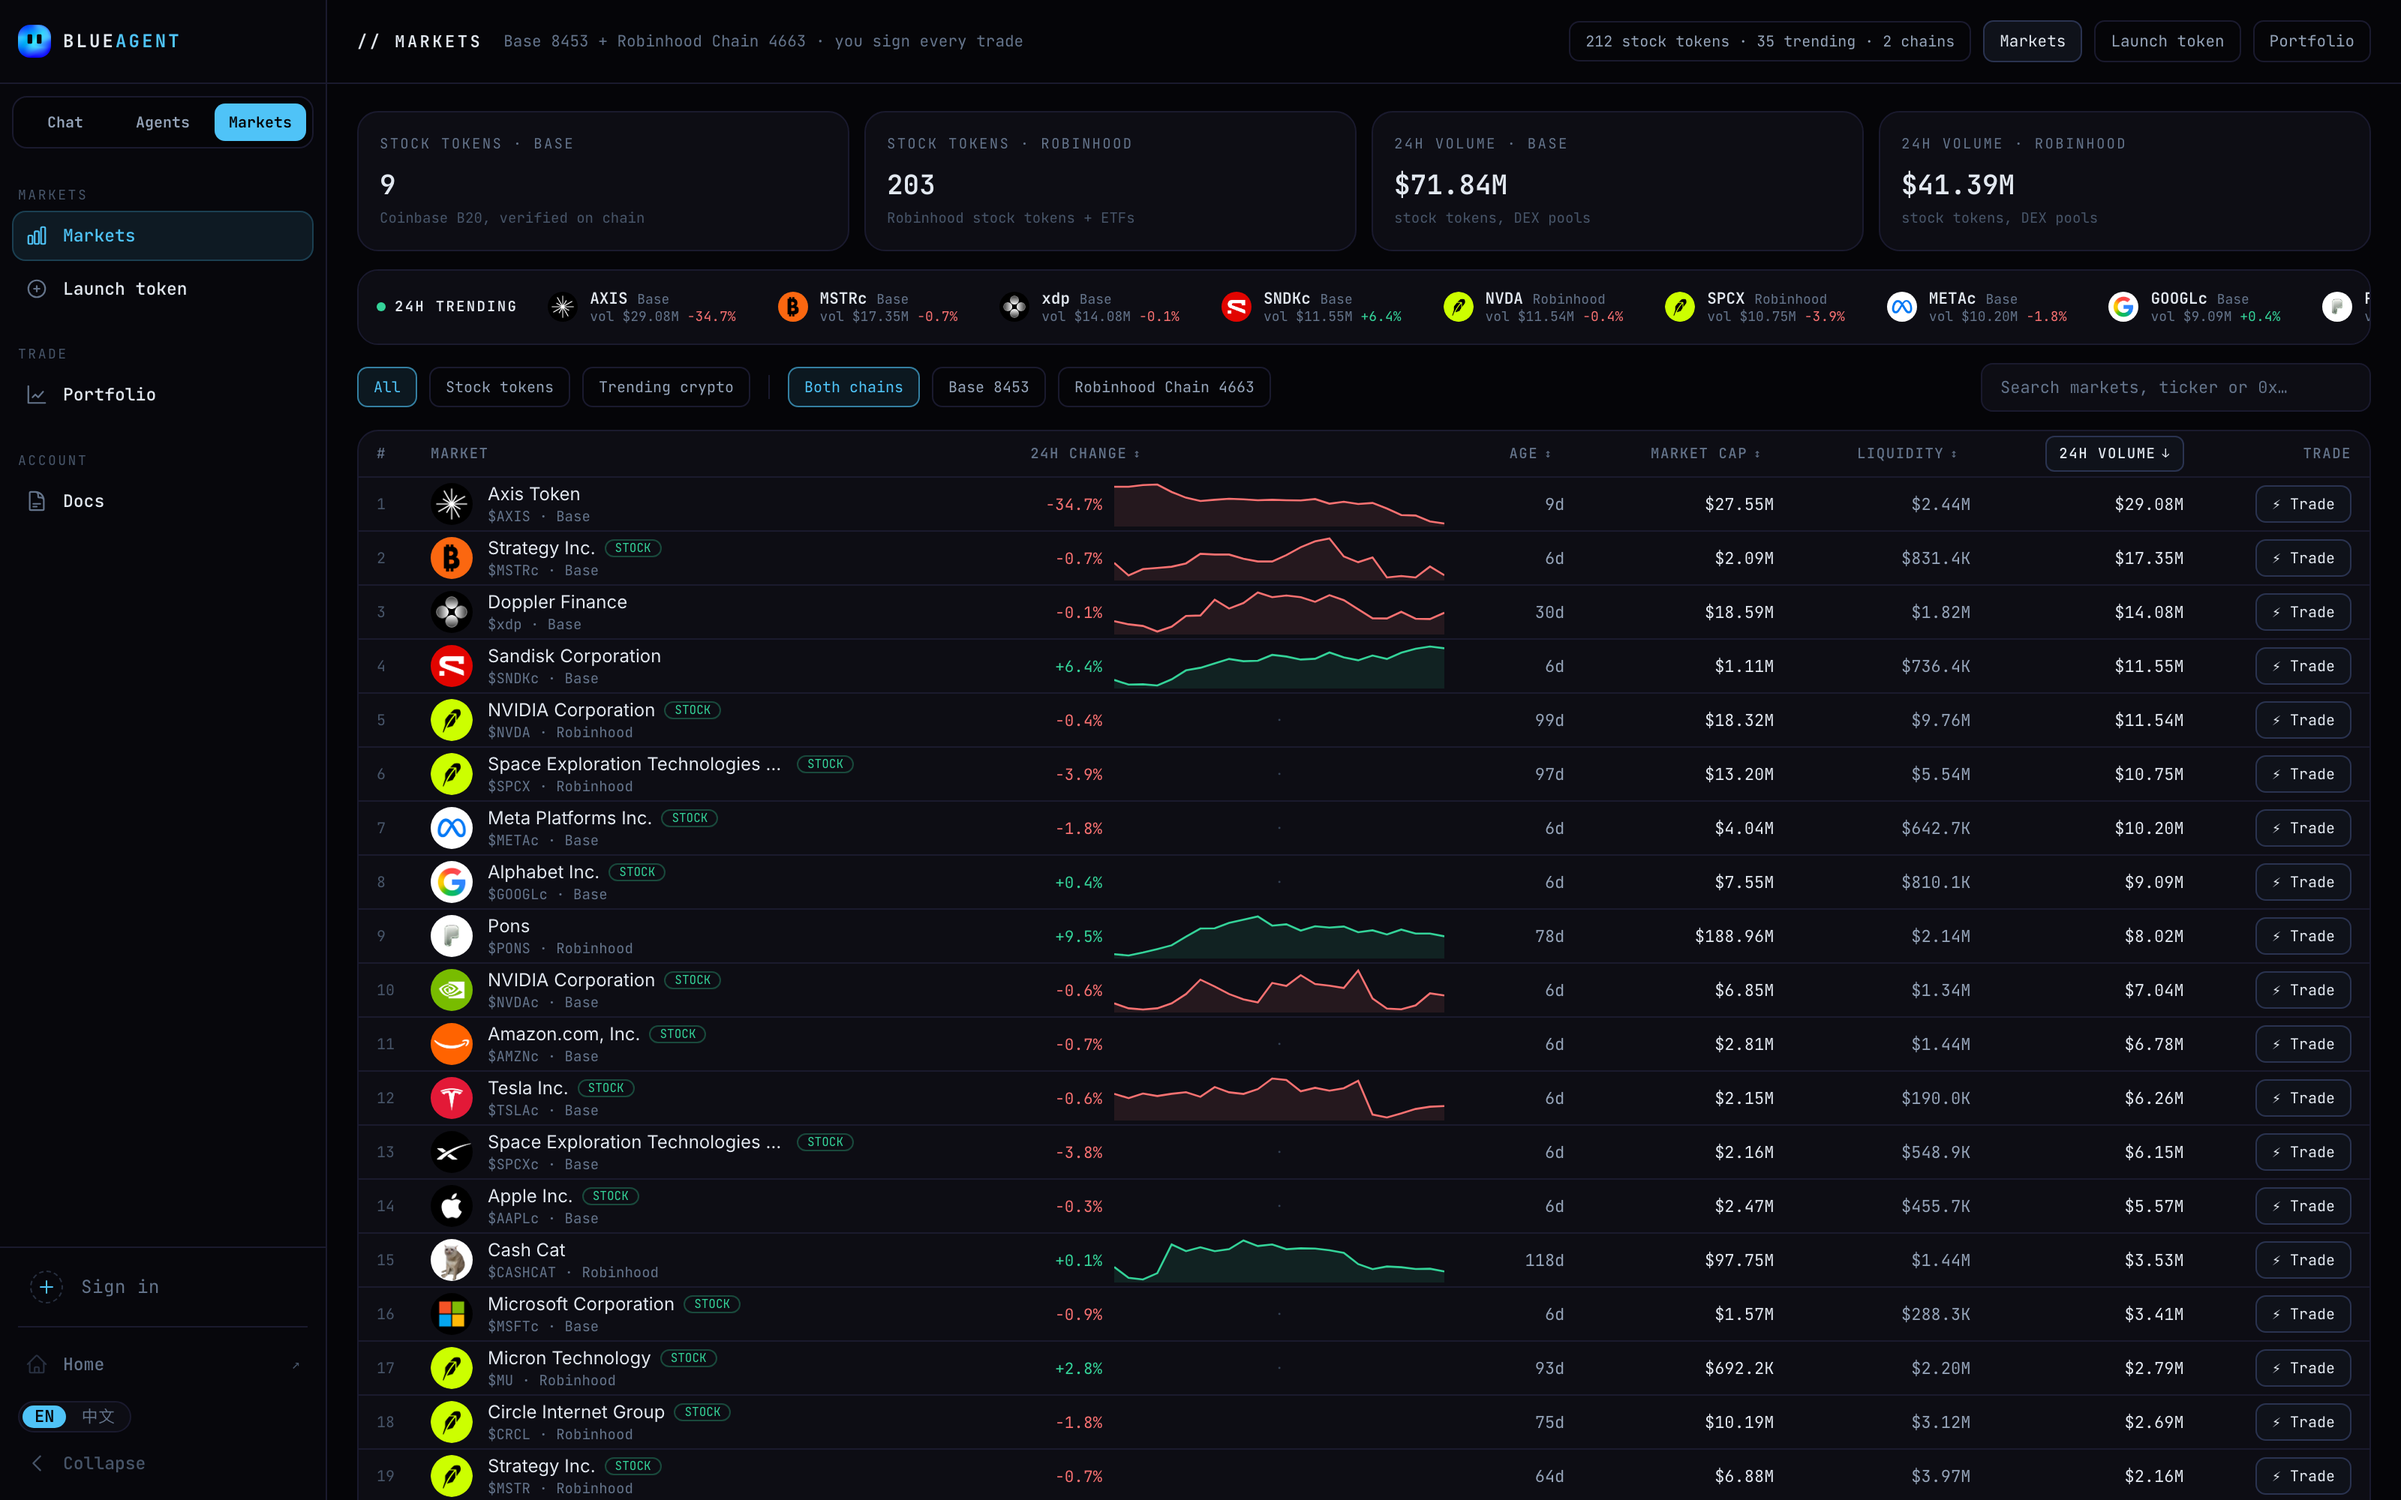
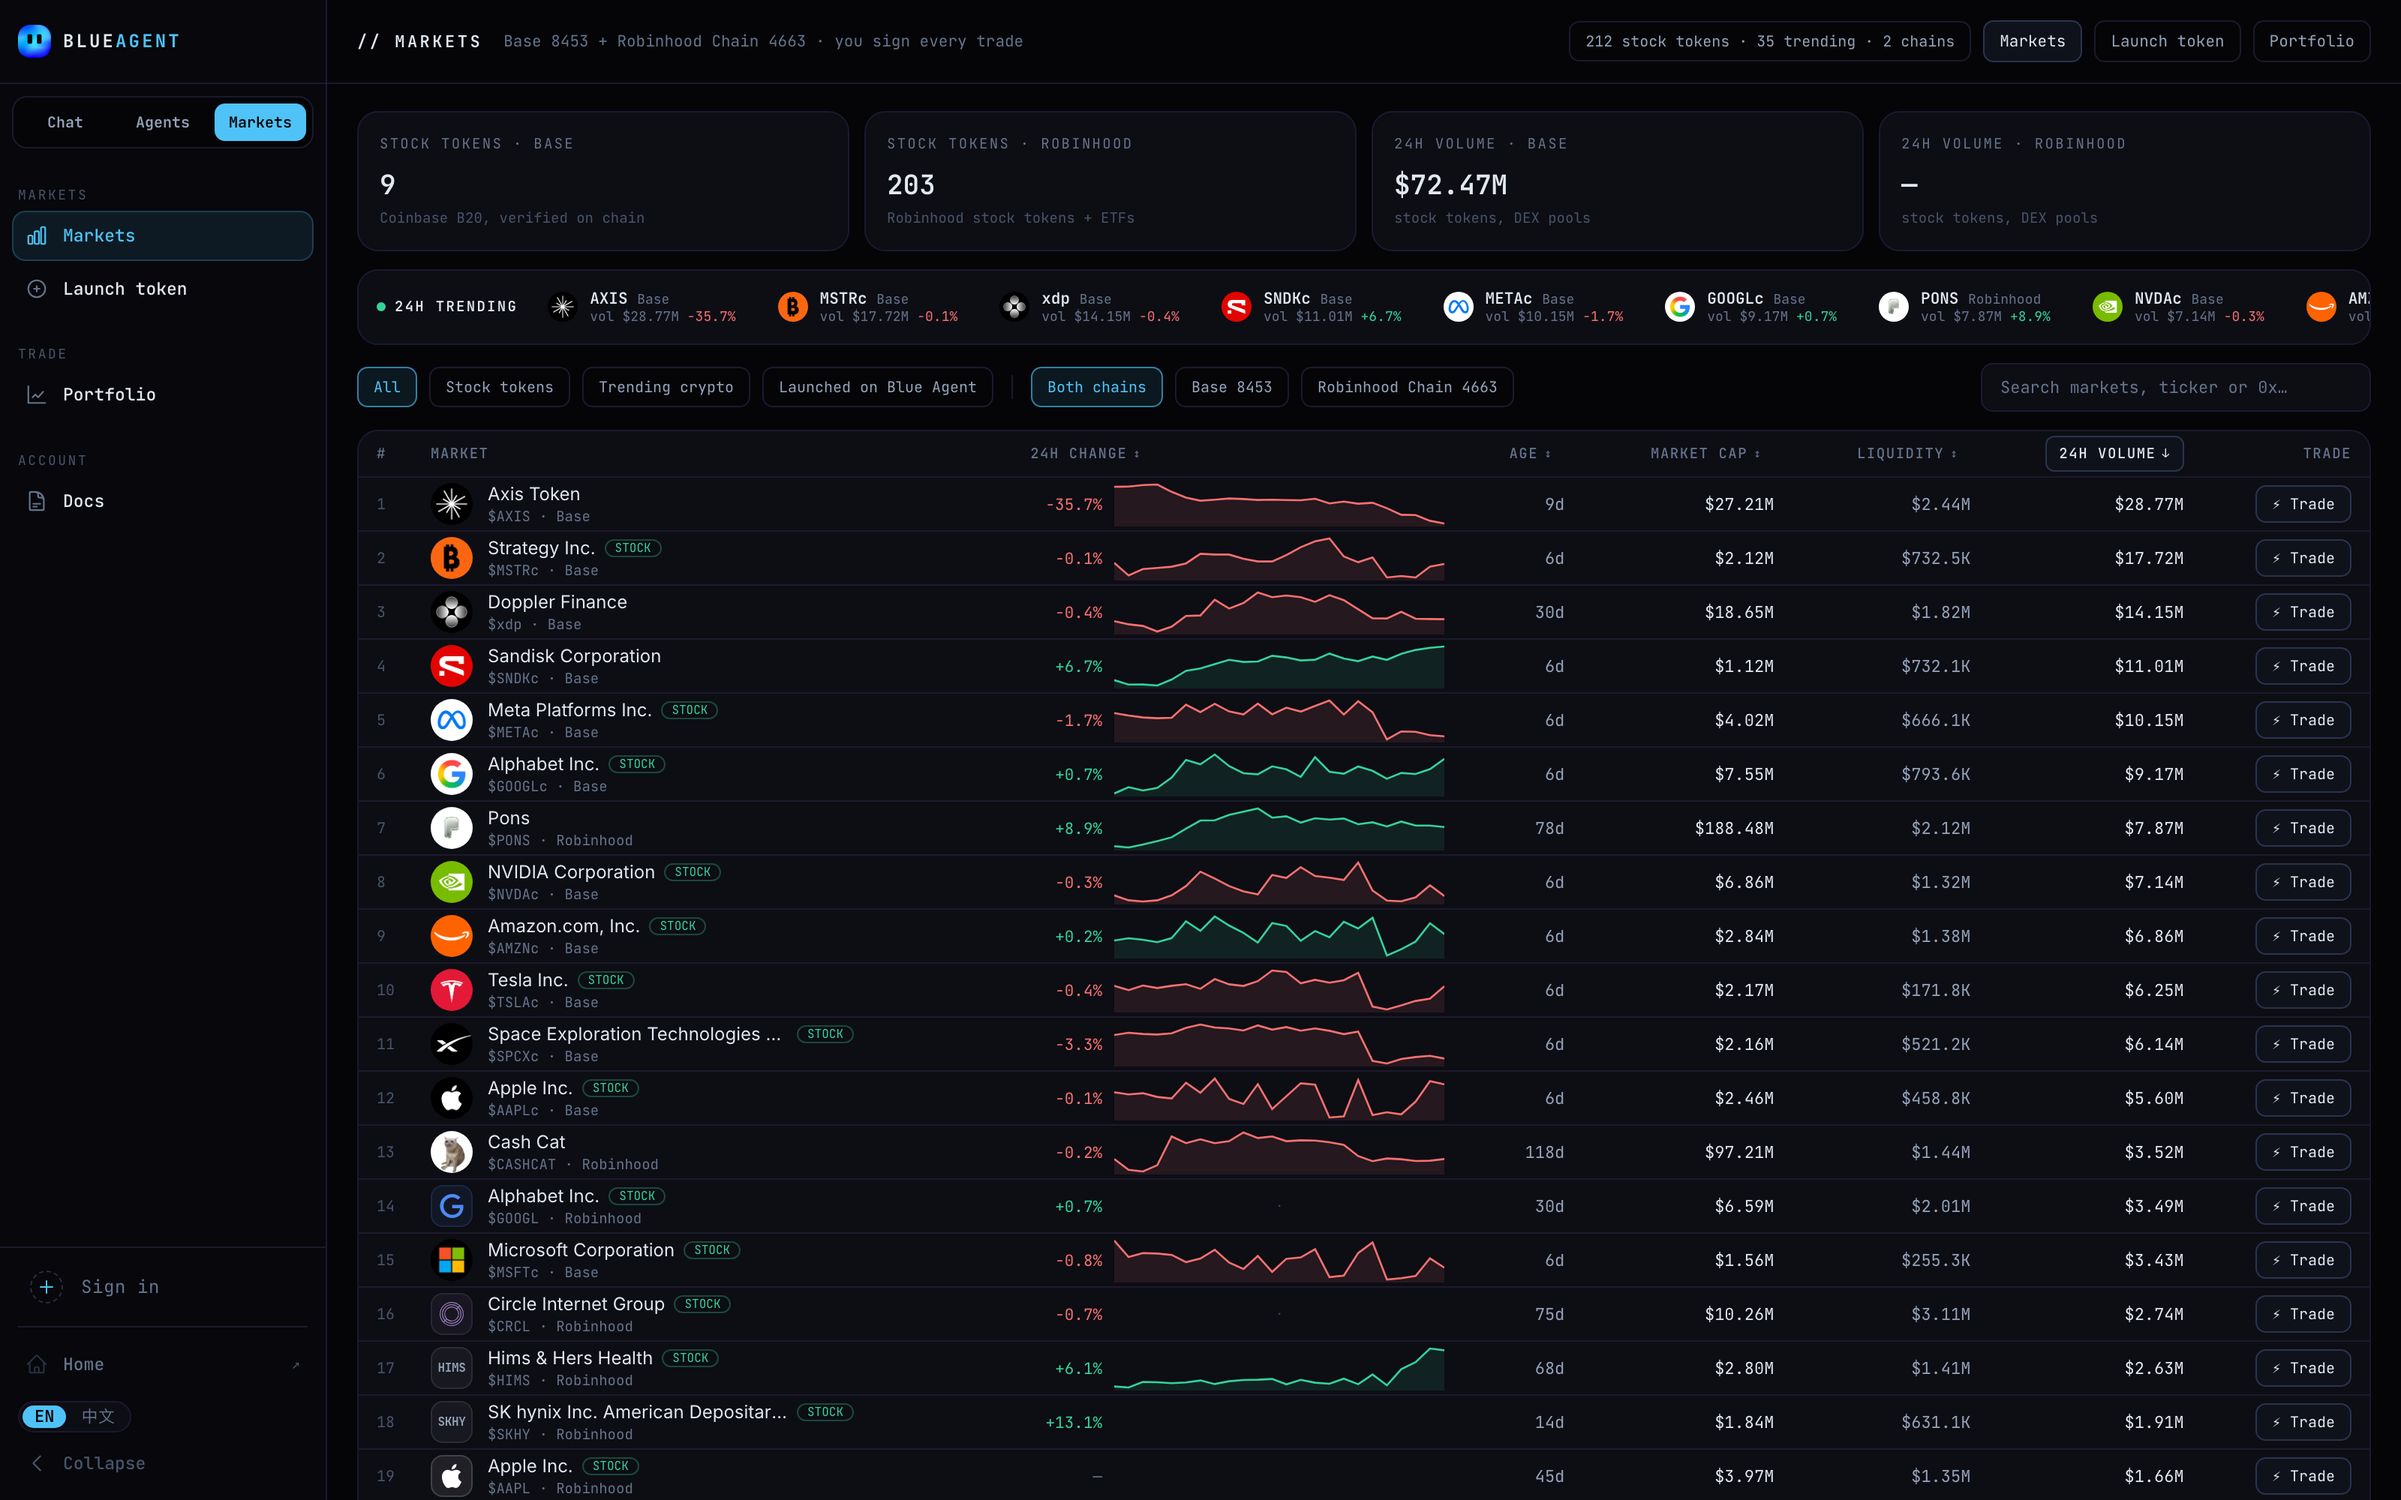
docs: final Agent Exchange article with images placed inline

diff --git a/docs/article-agent-exchange-2026-10-28.md b/docs/article-agent-exchange-2026-10-28.md
@@ -1,8 +1,8 @@
+**[COVER: 01-cover.png]**
+
+![01-cover.png](article-media/01-cover.png)
+
 # Blue Agent Exchange: every agent on Base, measured on chain
-
-*X article draft for @blueagent_. English, no em dashes, every number carries its chain. No token mentions (ShunTr, 2026-10-28). Figures are from production on 2026-10-28; re-read them from app.blueagent.dev/exchange/analytics the day it is posted.*
-
----
 
 Agents are starting to buy from each other. One agent needs a token checked, another needs a price compared across chains, a third needs a wallet screened before it pays it. Money moves in USDC, often with no human watching.
 
@@ -27,6 +27,10 @@ In the last 8 days on Base:
 
 These figures are measured, not estimated. We do not multiply calls by a listed price. Where we cannot tell something, such as a seller's own test wallets, we say so instead of guessing.
 
+**[IMAGE: 02-agents.png]**
+
+![02-agents.png](article-media/02-agents.png)
+
 ## Agents first, then everyone
 
 The Agents tab puts three groups on top of that list:
@@ -36,6 +40,10 @@ The Agents tab puts three groups on top of that list:
 - **Top sellers of the last 7 days**, by USDC received on Base.
 
 Analytics ranks the same sellers four ways: revenue, paying wallets, paid calls and growth. Growth compares whole days only, so a half-indexed day never looks like a jump.
+
+**[IMAGE: 04-analytics.png]**
+
+![04-analytics.png](article-media/04-analytics.png)
 
 ## A profile for every agent
 
@@ -60,6 +68,10 @@ Four checks sit at the top. We measure each one ourselves:
 Pick a service, check its input, and ask for the price. Blue Agent shows you the exact amount and the wallet it goes to before anything is signed.
 
 You sign one USDC authorization on Base, straight to the seller. Blue Agent takes no fee and never holds your money. If the quote asks for more than the listed price, or pays a different wallet, we refuse to let you sign it.
+
+**[IMAGE: 03-hire.png]**
+
+![03-hire.png](article-media/03-hire.png)
 
 ## Sell your service
 
@@ -99,6 +111,10 @@ The same rule runs in Markets. Stock tokens live on two chains today: 9 Coinbase
 
 Each token page shows candles from 15 minutes to a day and recent trades from its deepest pool, its on-chain facts, and a swap your own wallet signs. Portfolio reads what a wallet holds on both chains in one view.
 
+**[IMAGE: 05-markets.png]**
+
+![05-markets.png](article-media/05-markets.png)
+
 ## Built for agents first
 
 Everything on the Exchange is also machine-readable:
@@ -120,10 +136,3 @@ Or open the Exchange at app.blueagent.dev/exchange, and Markets at app.blueagent
 
 Every figure says where it comes from. Every payment has a receipt on Base.
 
----
-
-## Before posting (not part of the article)
-
-- Everything the article describes is live on production since 2026-10-28 17:30 UTC (main 09a40190): modes, Agents (listed, Discovered, Sell, My usage, Following, Docs, leaderboards), Markets + Portfolio.
-- Re-read the four numbers from /exchange/analytics right before posting and keep "in the last N days" equal to the window the page shows. The stock-token counts (9 on Base, 203 on Robinhood Chain) come from the Markets page tiles.
-- Images are in `docs/article-media/` (see its README for the order and alt text).

diff --git a/docs/article-media/README.md b/docs/article-media/README.md
@@ -17,3 +17,9 @@ fetch `https://blueagent.dev/api/hub/providers?limit=500` to `prov.json` next to
 `03-hire.png` uses a live, unsigned quote from www.ax1.vc read through
 `blueagent.dev/api/hire`; nothing was paid. `05-markets.png` is a screenshot of
 the Markets page (PR #516) with live GeckoTerminal prices.
+
+## Posting notes (not part of the article)
+
+- `[COVER: …]` goes in X's article cover slot; each `[IMAGE: …]` line is replaced by that image in the body.
+- Re-read the four numbers on app.blueagent.dev/exchange/analytics right before posting; keep "in the last N days" equal to the window the page shows.
+- Style kept: English, no em dashes, every number with its chain, no token mentions.
